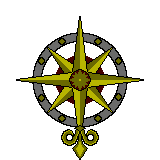
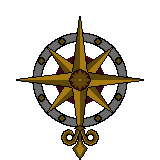
UI improvements

diff --git a/src/gui/mod.rs b/src/gui/mod.rs
@@ -64,6 +64,7 @@ fn add_actor_info(mut commands: Commands, asset_server: Res<AssetServer>) {
                 flex_direction: FlexDirection::Column,
                 top: Val::Px(5.0),
                 left: Val::Px(5.0),
+                padding: UiRect::all(Val::Px(10.0)),
                 ..default()
             },
             ..default()
@@ -138,15 +139,15 @@ fn spawn_action_info(
             };
             r.spawn(ImageBundle {
                 image: UiImage::new(asset_server.load(img)),
-                background_color: MY_ACCENT_COLOR.into(),
+                background_color: MY_ACCENT_COLOR.with_a(0.6).into(),
                 ..default()
             });
             r.spawn(TextBundle::from_section(
                 info.description.clone(),
                 TextStyle {
                     font: asset_server.load(BASE_FONT),
-                    font_size: 15.0,
-                    color: MY_ACCENT_COLOR,
+                    font_size: 12.0,
+                    color: MY_ACCENT_COLOR.with_a(0.6),
                 },
             ));
         });
@@ -167,6 +168,8 @@ fn insert_compass(
                 material: materials.add(StandardMaterial {
                     base_color_texture: Some(asset_server.load("ui/windrose.png")),
                     alpha_mode: AlphaMode::Mask(0.5),
+                    // unlit: true,
+                    base_color: Color::WHITE.with_a(0.5),
                     unlit: true,
                     ..default()
                 }),
@@ -180,7 +183,7 @@ fn insert_compass(
 pub fn update_compass_pos(
     q: Query<&PiecePos, Changed<PiecePos>>,
     mut compass_q: Query<(&mut Transform, &mut Visibility, &Compass)>,
-    q_p: Query<&PlayerControl,With<CurrentActorToken>>,
+    q_p: Query<&PlayerControl, With<CurrentActorToken>>,
     state: Res<State<GameTurnSteps>>,
 ) {
     for (mut t, _, compass) in compass_q.iter_mut() {
@@ -191,7 +194,7 @@ pub fn update_compass_pos(
     }
     if state.is_changed() {
         let visible = !q_p.is_empty() && *state == GameTurnSteps::ActionSelection;
-        for (_, mut vis, _) in compass_q.iter_mut() {   
+        for (_, mut vis, _) in compass_q.iter_mut() {
             *vis = if visible {
                 Visibility::Inherited
             } else {
